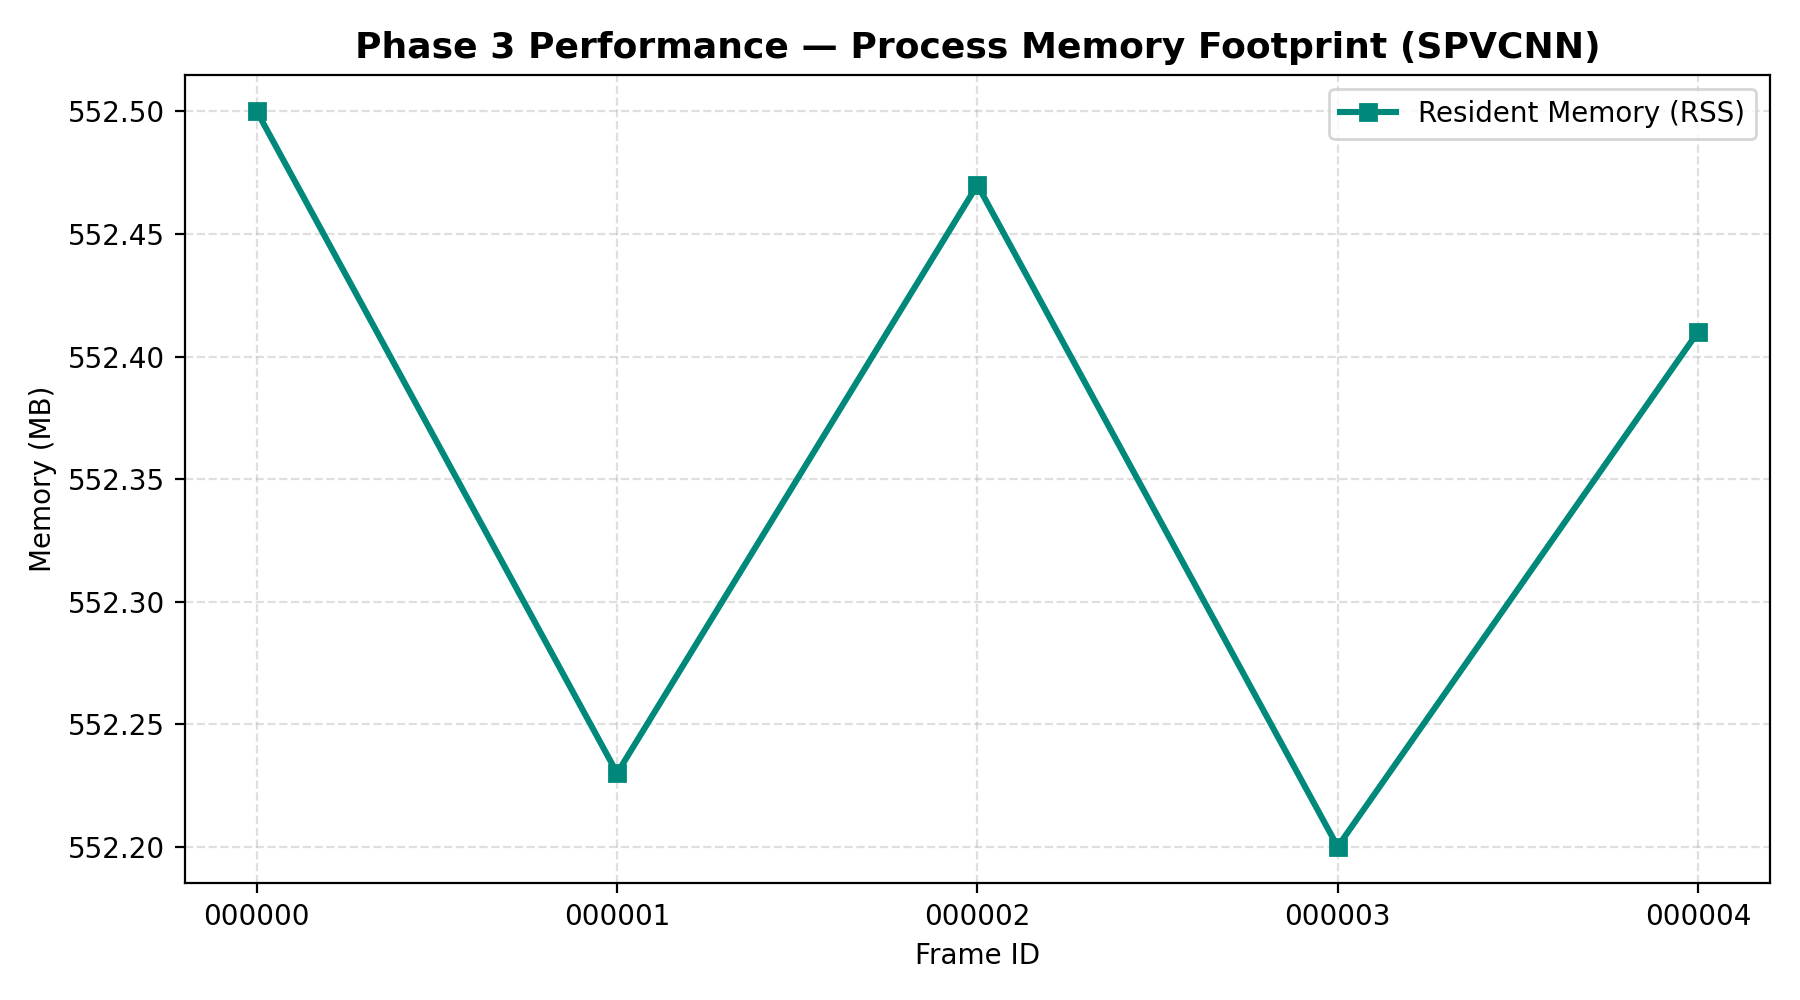
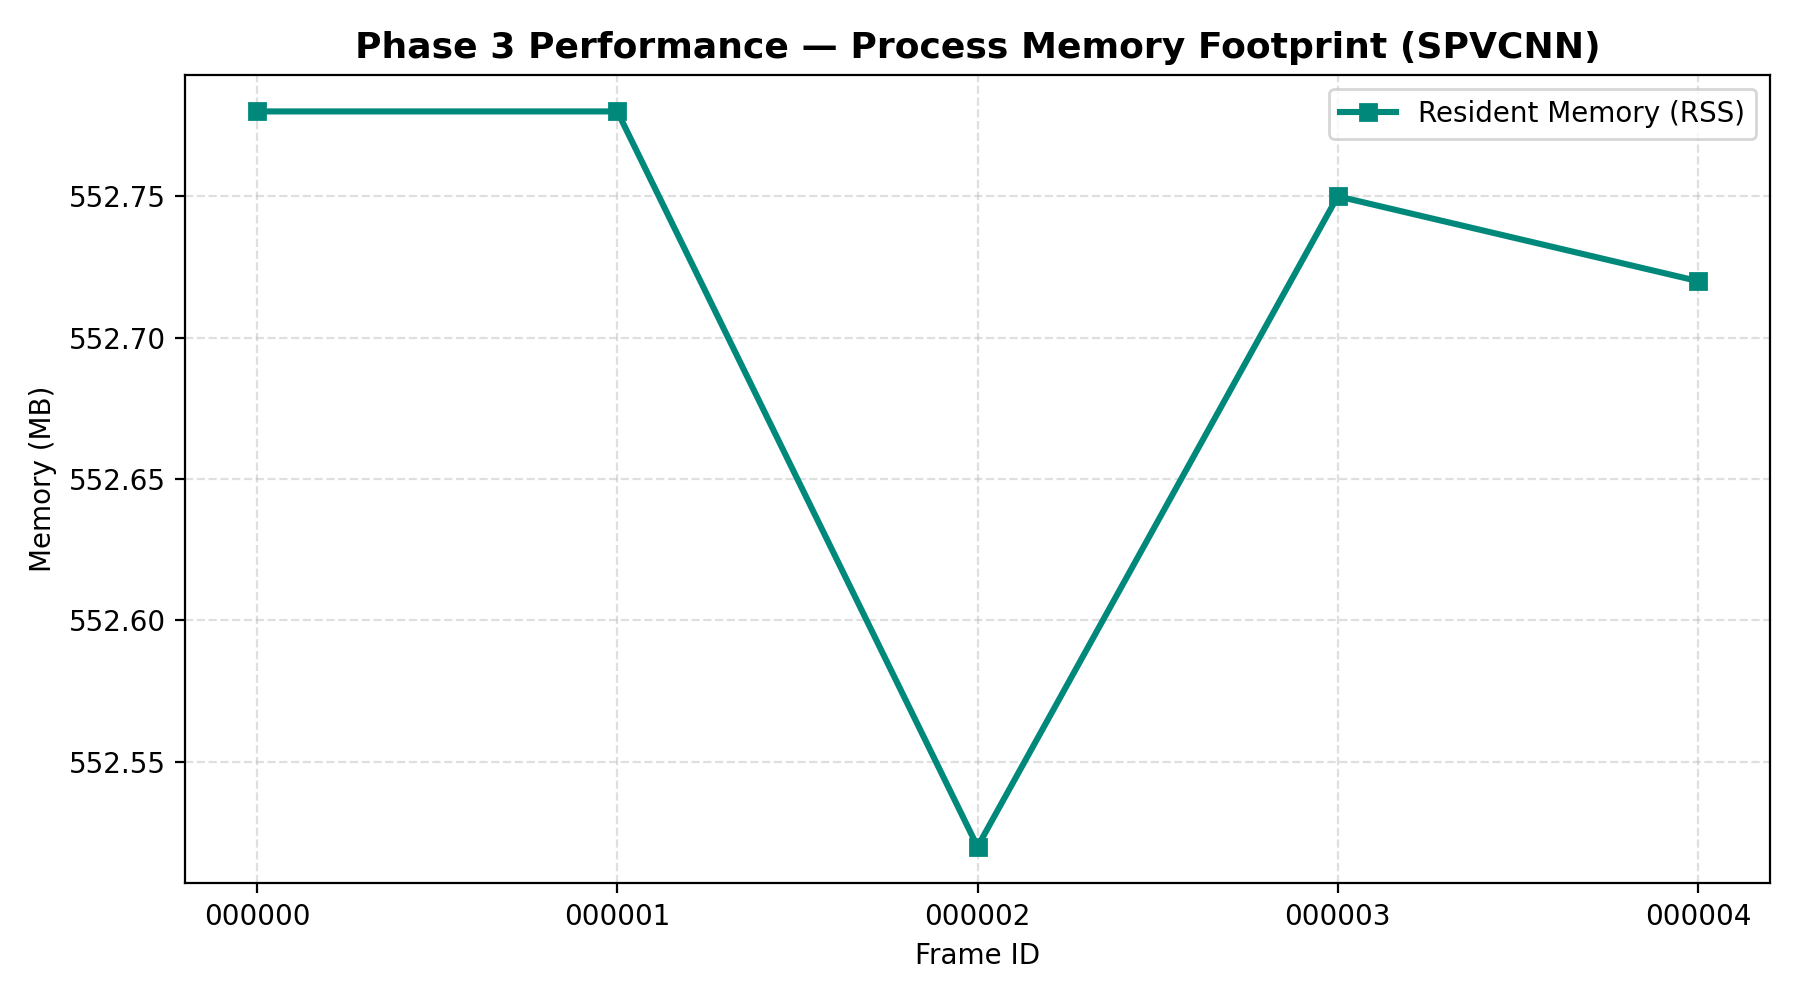
chore(benchmark): update Phase 3 SPVCNN benchmark results and plots

diff --git a/results/spvcnn_benchmark/benchmark_report_spvcnn.md b/results/spvcnn_benchmark/benchmark_report_spvcnn.md
@@ -1,7 +1,7 @@
 # Phase 3 — Performance Benchmark Report (SPVCNN)
 
 **Objective**: Empirical performance profiling of the 5-stage perception pipeline with SPVCNN.  
-**Benchmark Date**: 2026-08-22 18:06:18  
+**Benchmark Date**: 2026-08-22 21:12:26  
 **Hardware & Environment**: macOS-26.5.2-arm64-arm-64bit | CPU: arm (10 threads) | RAM: 16.0 GB  
 **PyTorch Version**: 2.8.0 | Python: 3.9.6  
 **Model Architecture**: SPVCNN (136,979 parameters)  
@@ -12,12 +12,12 @@
 
 | Pipeline Stage     |   Mean (ms) |   Median (ms) |   P95 (ms) |   Min (ms) |   Max (ms) |   Std Dev |
 |--------------------|-------------|---------------|------------|------------|------------|-----------|
-| 1. LiDAR Loading   |       1.395 |         1.555 |      2.006 |      0.352 |      2.097 |     0.578 |
-| 2. Preprocessing   |       2.803 |         2.82  |      2.924 |      2.694 |      2.946 |     0.091 |
-| 3. ML Inference    |     107.604 |       106.863 |    109.36  |    106.267 |    109.427 |     1.371 |
-| 4. Grid Generation |     164.522 |       174.607 |    175.648 |    125.602 |    175.781 |    19.515 |
-| 5. Vis Preparation |      94.704 |        95.154 |     95.817 |     92.73  |     95.823 |     1.184 |
-| TOTAL END-TO-END   |     371.028 |       379.752 |    384.785 |    330.841 |    385.148 |    20.334 |
+| 1. LiDAR Loading   |       1.703 |         2.146 |      2.364 |      0.33  |      2.402 |     0.762 |
+| 2. Preprocessing   |       2.769 |         2.802 |      2.813 |      2.629 |      2.815 |     0.07  |
+| 3. ML Inference    |     100.06  |        95.572 |    108.325 |     94.341 |    108.769 |     6.256 |
+| 4. Grid Generation |     157.485 |       165.137 |    168.803 |    120.891 |    169.059 |    18.372 |
+| 5. Vis Preparation |      90.791 |        90.949 |     92.54  |     89.266 |     92.76  |     1.353 |
+| TOTAL END-TO-END   |     352.807 |       359.496 |    364.464 |    325.38  |    365.396 |    14.272 |
 
 ---
 
@@ -27,12 +27,12 @@
 | :--- | :--- |
 | **Mean Input Points / Frame** | **40,000 points** |
 | **Mean 2.5D Cells / Frame** | **28,308 cells** |
-| **Mean End-to-End Latency** | **371.03 ms** |
-| **Median End-to-End Latency** | **379.75 ms** |
-| **95th Percentile Latency (P95)**| **384.79 ms** |
-| **End-to-End Throughput (FPS)** | **2.70 FPS** |
-| **Mean Process RAM (RSS)** | **552.36 MB** |
-| **Mean CPU Utilization** | **143.5%** |
+| **Mean End-to-End Latency** | **352.81 ms** |
+| **Median End-to-End Latency** | **359.50 ms** |
+| **95th Percentile Latency (P95)**| **364.46 ms** |
+| **End-to-End Throughput (FPS)** | **2.84 FPS** |
+| **Mean Process RAM (RSS)** | **552.71 MB** |
+| **Mean CPU Utilization** | **142.0%** |
 
 ---
 
@@ -40,8 +40,8 @@
 
 | Points (N)   | Total (ms)   | Load (ms)   | Prep (ms)   | ML (ms)     | Grid (ms)   |   FPS | RAM (MB)   |
 |--------------|--------------|-------------|-------------|-------------|-------------|-------|------------|
-| 10,000       | 61.87 ms     | 0.01 ms     | 0.54 ms     | 22.85 ms    | 38.46 ms    | 16.16 | 561.6 MB   |
-| 100,000      | 820.60 ms    | 0.02 ms     | 4.76 ms     | 323.25 ms   | 492.57 ms   |  1.22 | 1021.7 MB  |
-| 500,000      | 3343.18 ms   | 0.18 ms     | 24.85 ms    | 1375.69 ms  | 1942.46 ms  |  0.3  | 1177.3 MB  |
-| 1,000,000    | 5819.43 ms   | 0.13 ms     | 48.78 ms    | 2961.69 ms  | 2808.83 ms  |  0.17 | 1290.2 MB  |
-| 5,000,000    | 24425.38 ms  | 1.00 ms     | 287.49 ms   | 14464.45 ms | 9672.44 ms  |  0.04 | 2312.5 MB  |
+| 10,000       | 60.34 ms     | 0.01 ms     | 0.51 ms     | 22.08 ms    | 37.73 ms    | 16.57 | 562.1 MB   |
+| 100,000      | 814.39 ms    | 0.02 ms     | 4.79 ms     | 311.80 ms   | 497.77 ms   |  1.23 | 1047.9 MB  |
+| 500,000      | 3309.03 ms   | 0.06 ms     | 26.95 ms    | 1404.64 ms  | 1877.39 ms  |  0.3  | 1028.8 MB  |
+| 1,000,000    | 6069.47 ms   | 0.80 ms     | 56.27 ms    | 3114.36 ms  | 2898.04 ms  |  0.16 | 1228.8 MB  |
+| 5,000,000    | 24935.97 ms  | 2.85 ms     | 302.37 ms   | 14903.59 ms | 9727.16 ms  |  0.04 | 2291.4 MB  |
